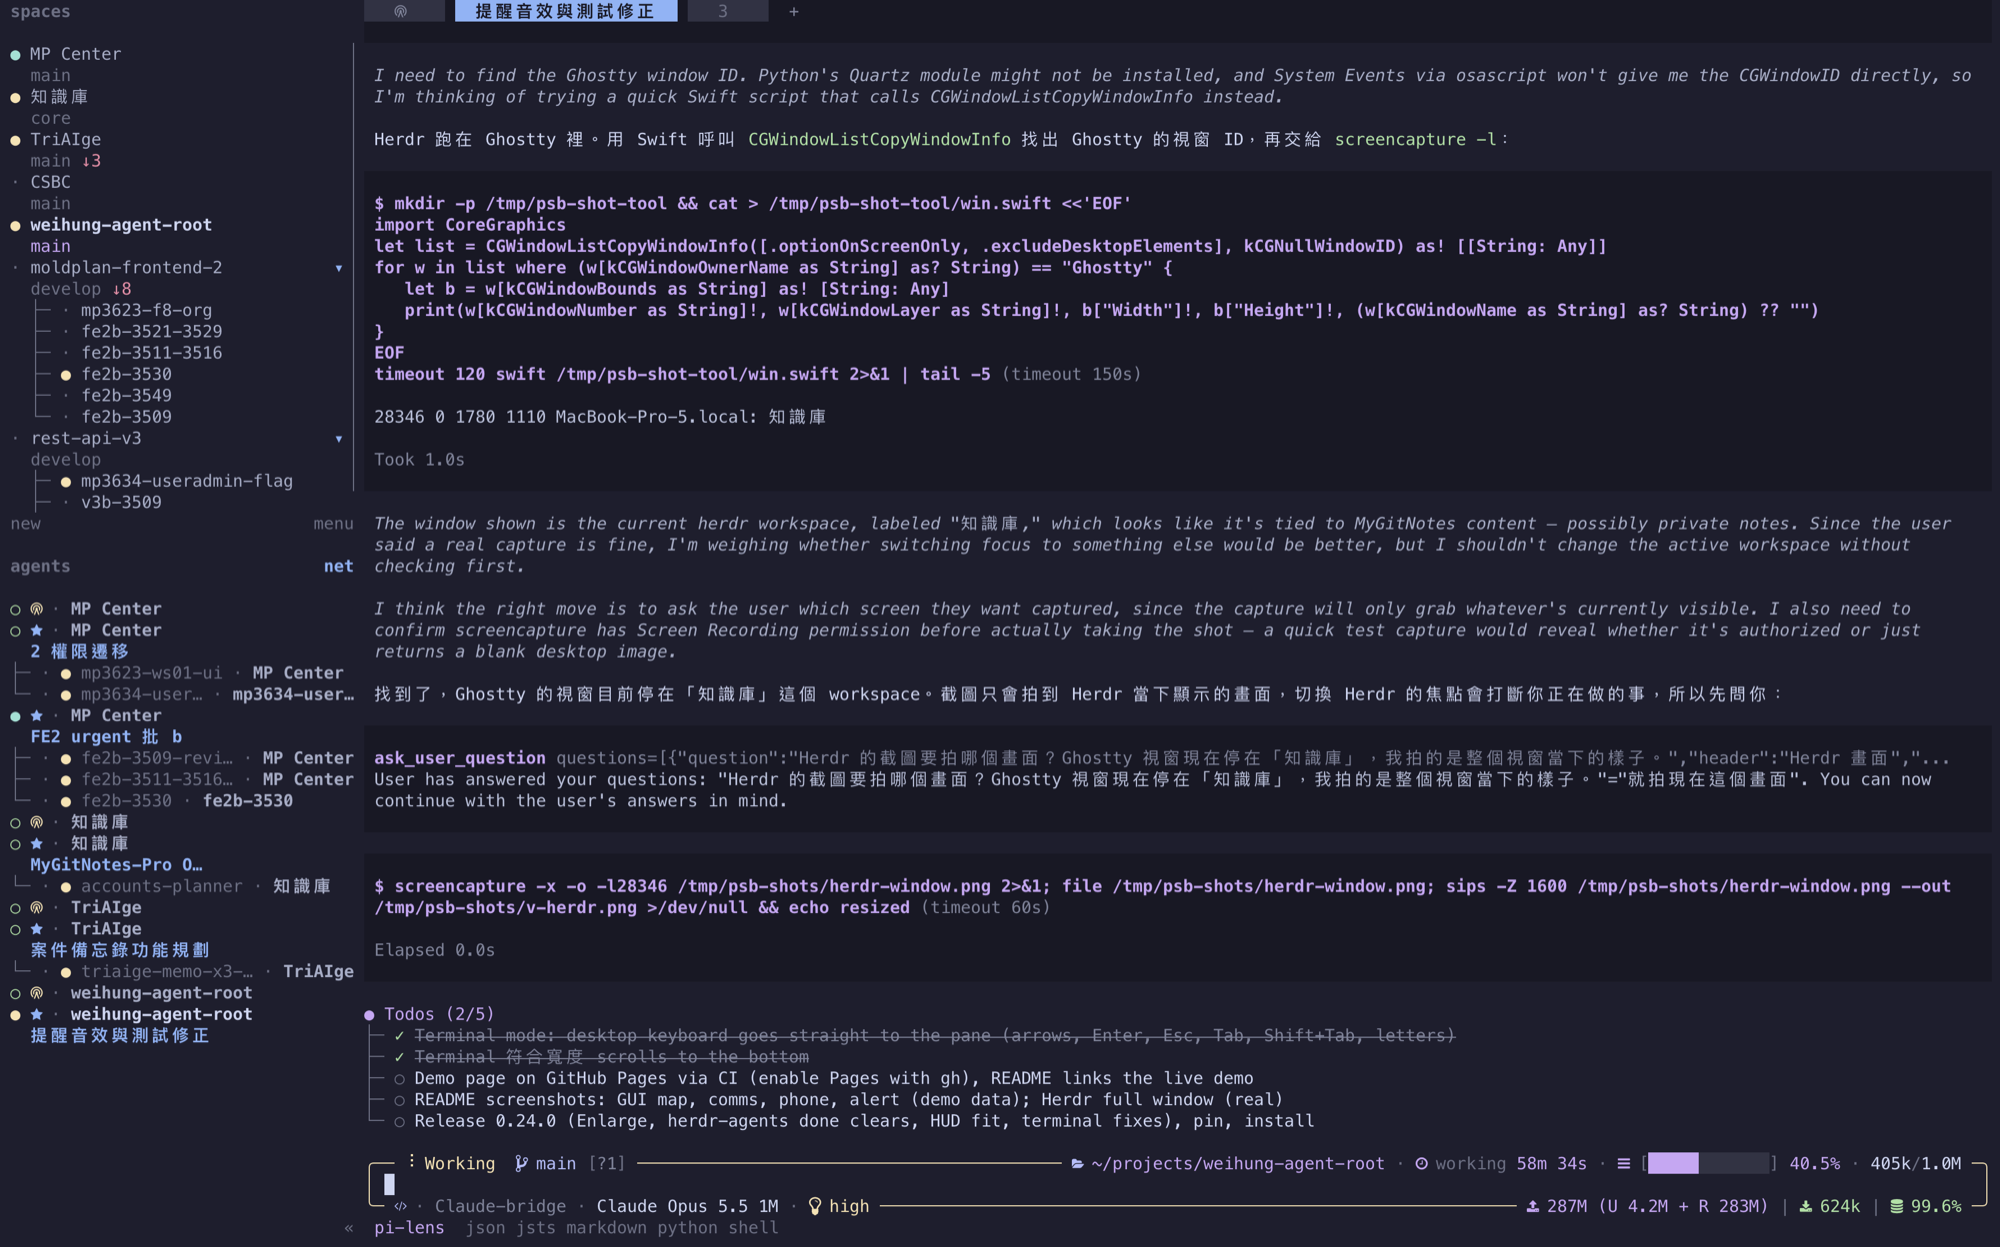
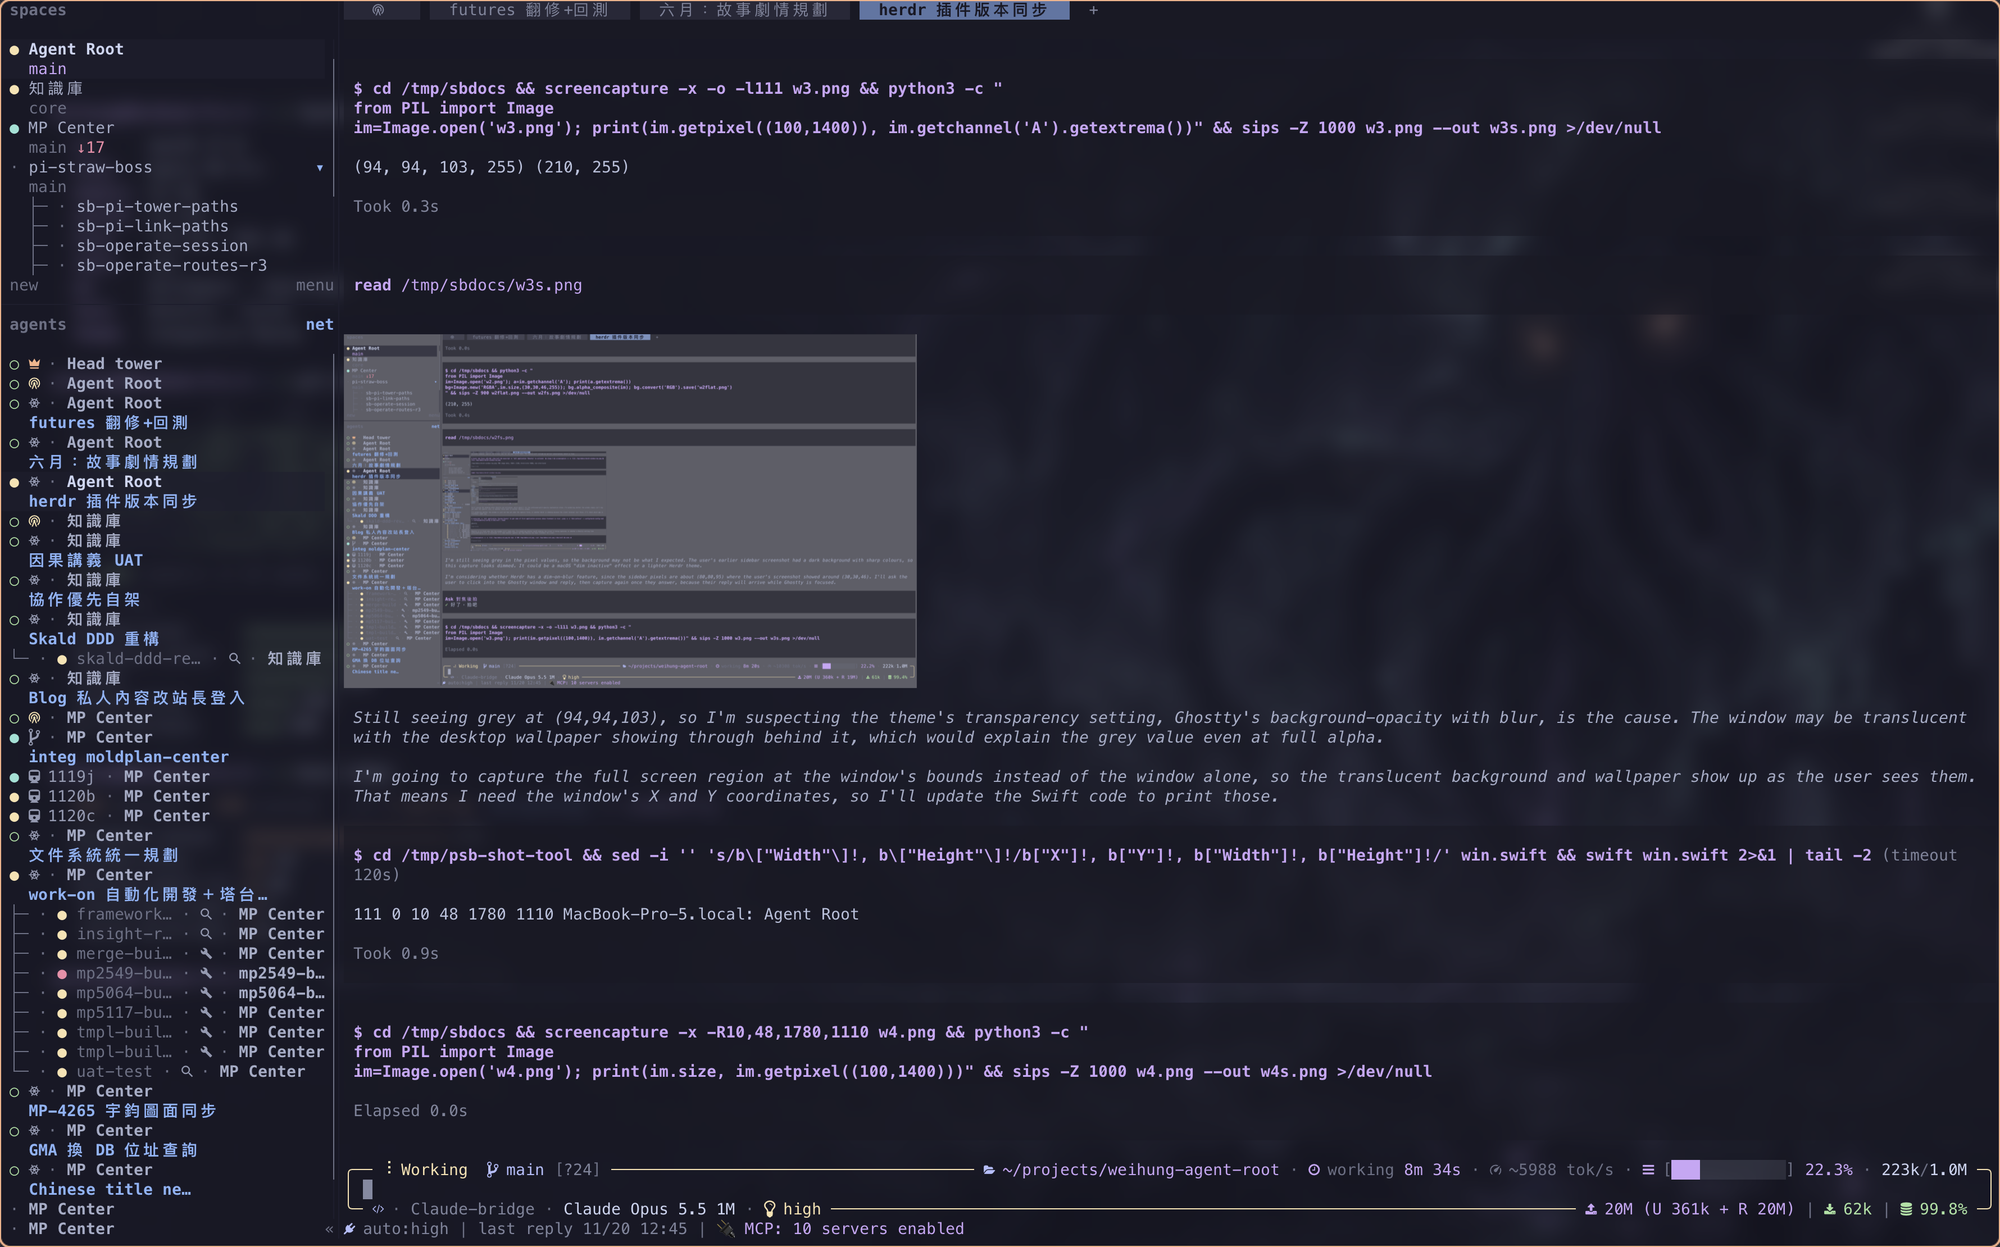
docs: new tower dashboard, sidebar net view, and Herdr window screenshots with the kind marks

Changed region(s): [[0.0, 0.0, 1.0, 1.0], [0.186, 0.0, 0.558, 0.0305], [0.682, 0.2438, 0.868, 0.2743]]

diff --git a/site/src/content/docs/zh-tw/guide/herdr-plugins.md b/site/src/content/docs/zh-tw/guide/herdr-plugins.md
@@ -13,7 +13,7 @@ description: Herdr 側邊欄的網檢視，以及清理智慧體留在 worktree 
 Herdr server 一啟動，這個檢視就是開的，一個按鍵可以關掉再開回來。
 它需要 Herdr 0.9.5 或更新版本與 node。
 
-<p align="center"><img src="/pi-straw-boss/docs/img/sidebar-net-view.png" width="308" alt="網檢視中的 Herdr 側邊欄：每個工作區的塔台排最前面，每個主智慧體帶星號與它的分頁標籤，每個子智慧體以樹狀分支掛在啟動它的 session 之下"></p>
+<p align="center"><img src="/pi-straw-boss/docs/img/sidebar-net-view.png" width="308" alt="網檢視中的 Herdr 側邊欄：主塔台排最前面，接著是每個工作區的塔台，每個主智慧體帶它種類的標記與分頁標籤，每列火車帶它的代碼，每個子智慧體以樹狀分支掛在啟動它的 session 之下"></p>
 
 從 GitHub 安裝，或連結一份 checkout：
 

diff --git a/site/src/content/docs/guide/herdr-plugins.md b/site/src/content/docs/guide/herdr-plugins.md
@@ -13,7 +13,7 @@ It lists the head tower's workspace first (once the head tower exists), then in 
 The view is on whenever the Herdr server starts, and one key switches it off and on again.
 It needs Herdr 0.9.5 or newer and node.
 
-<p align="center"><img src="/pi-straw-boss/docs/img/sidebar-net-view.png" width="308" alt="Herdr's sidebar in the net view: each workspace's tower first, each main agent with a star and its tab's label, and every subagent on a tree branch under the session that launched it"></p>
+<p align="center"><img src="/pi-straw-boss/docs/img/sidebar-net-view.png" width="308" alt="Herdr's sidebar in the net view: the head tower first, then each workspace's tower, each main agent with its kind's mark and its tab's label, each train with its code, and every subagent on a tree branch under the session that launched it"></p>
 
 Install it from GitHub, or link a checkout:
 
